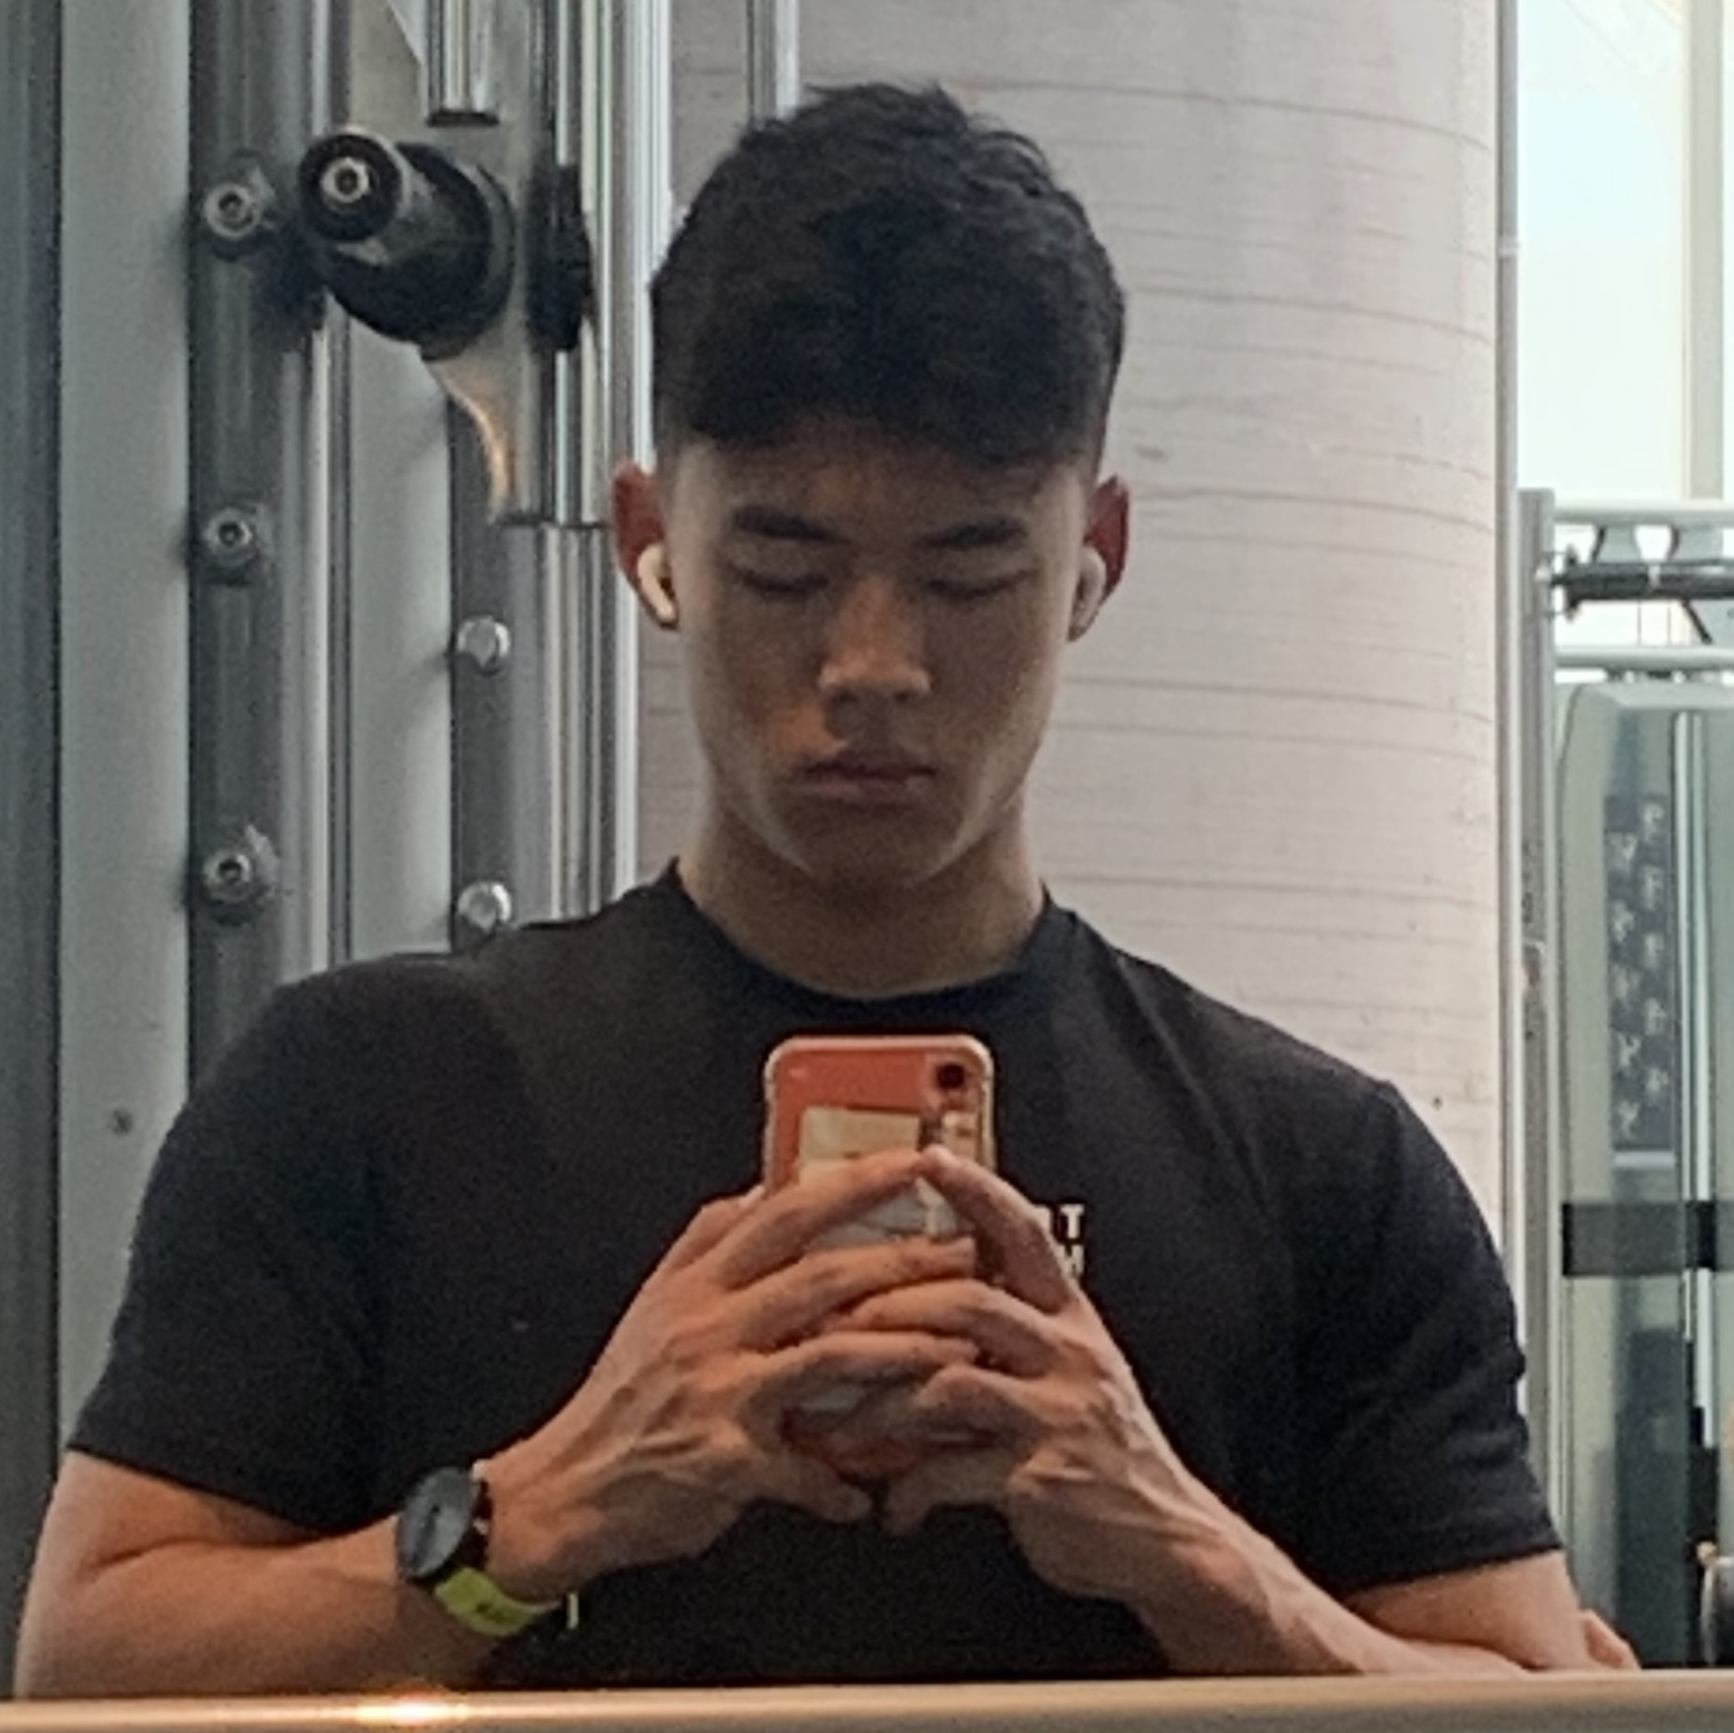
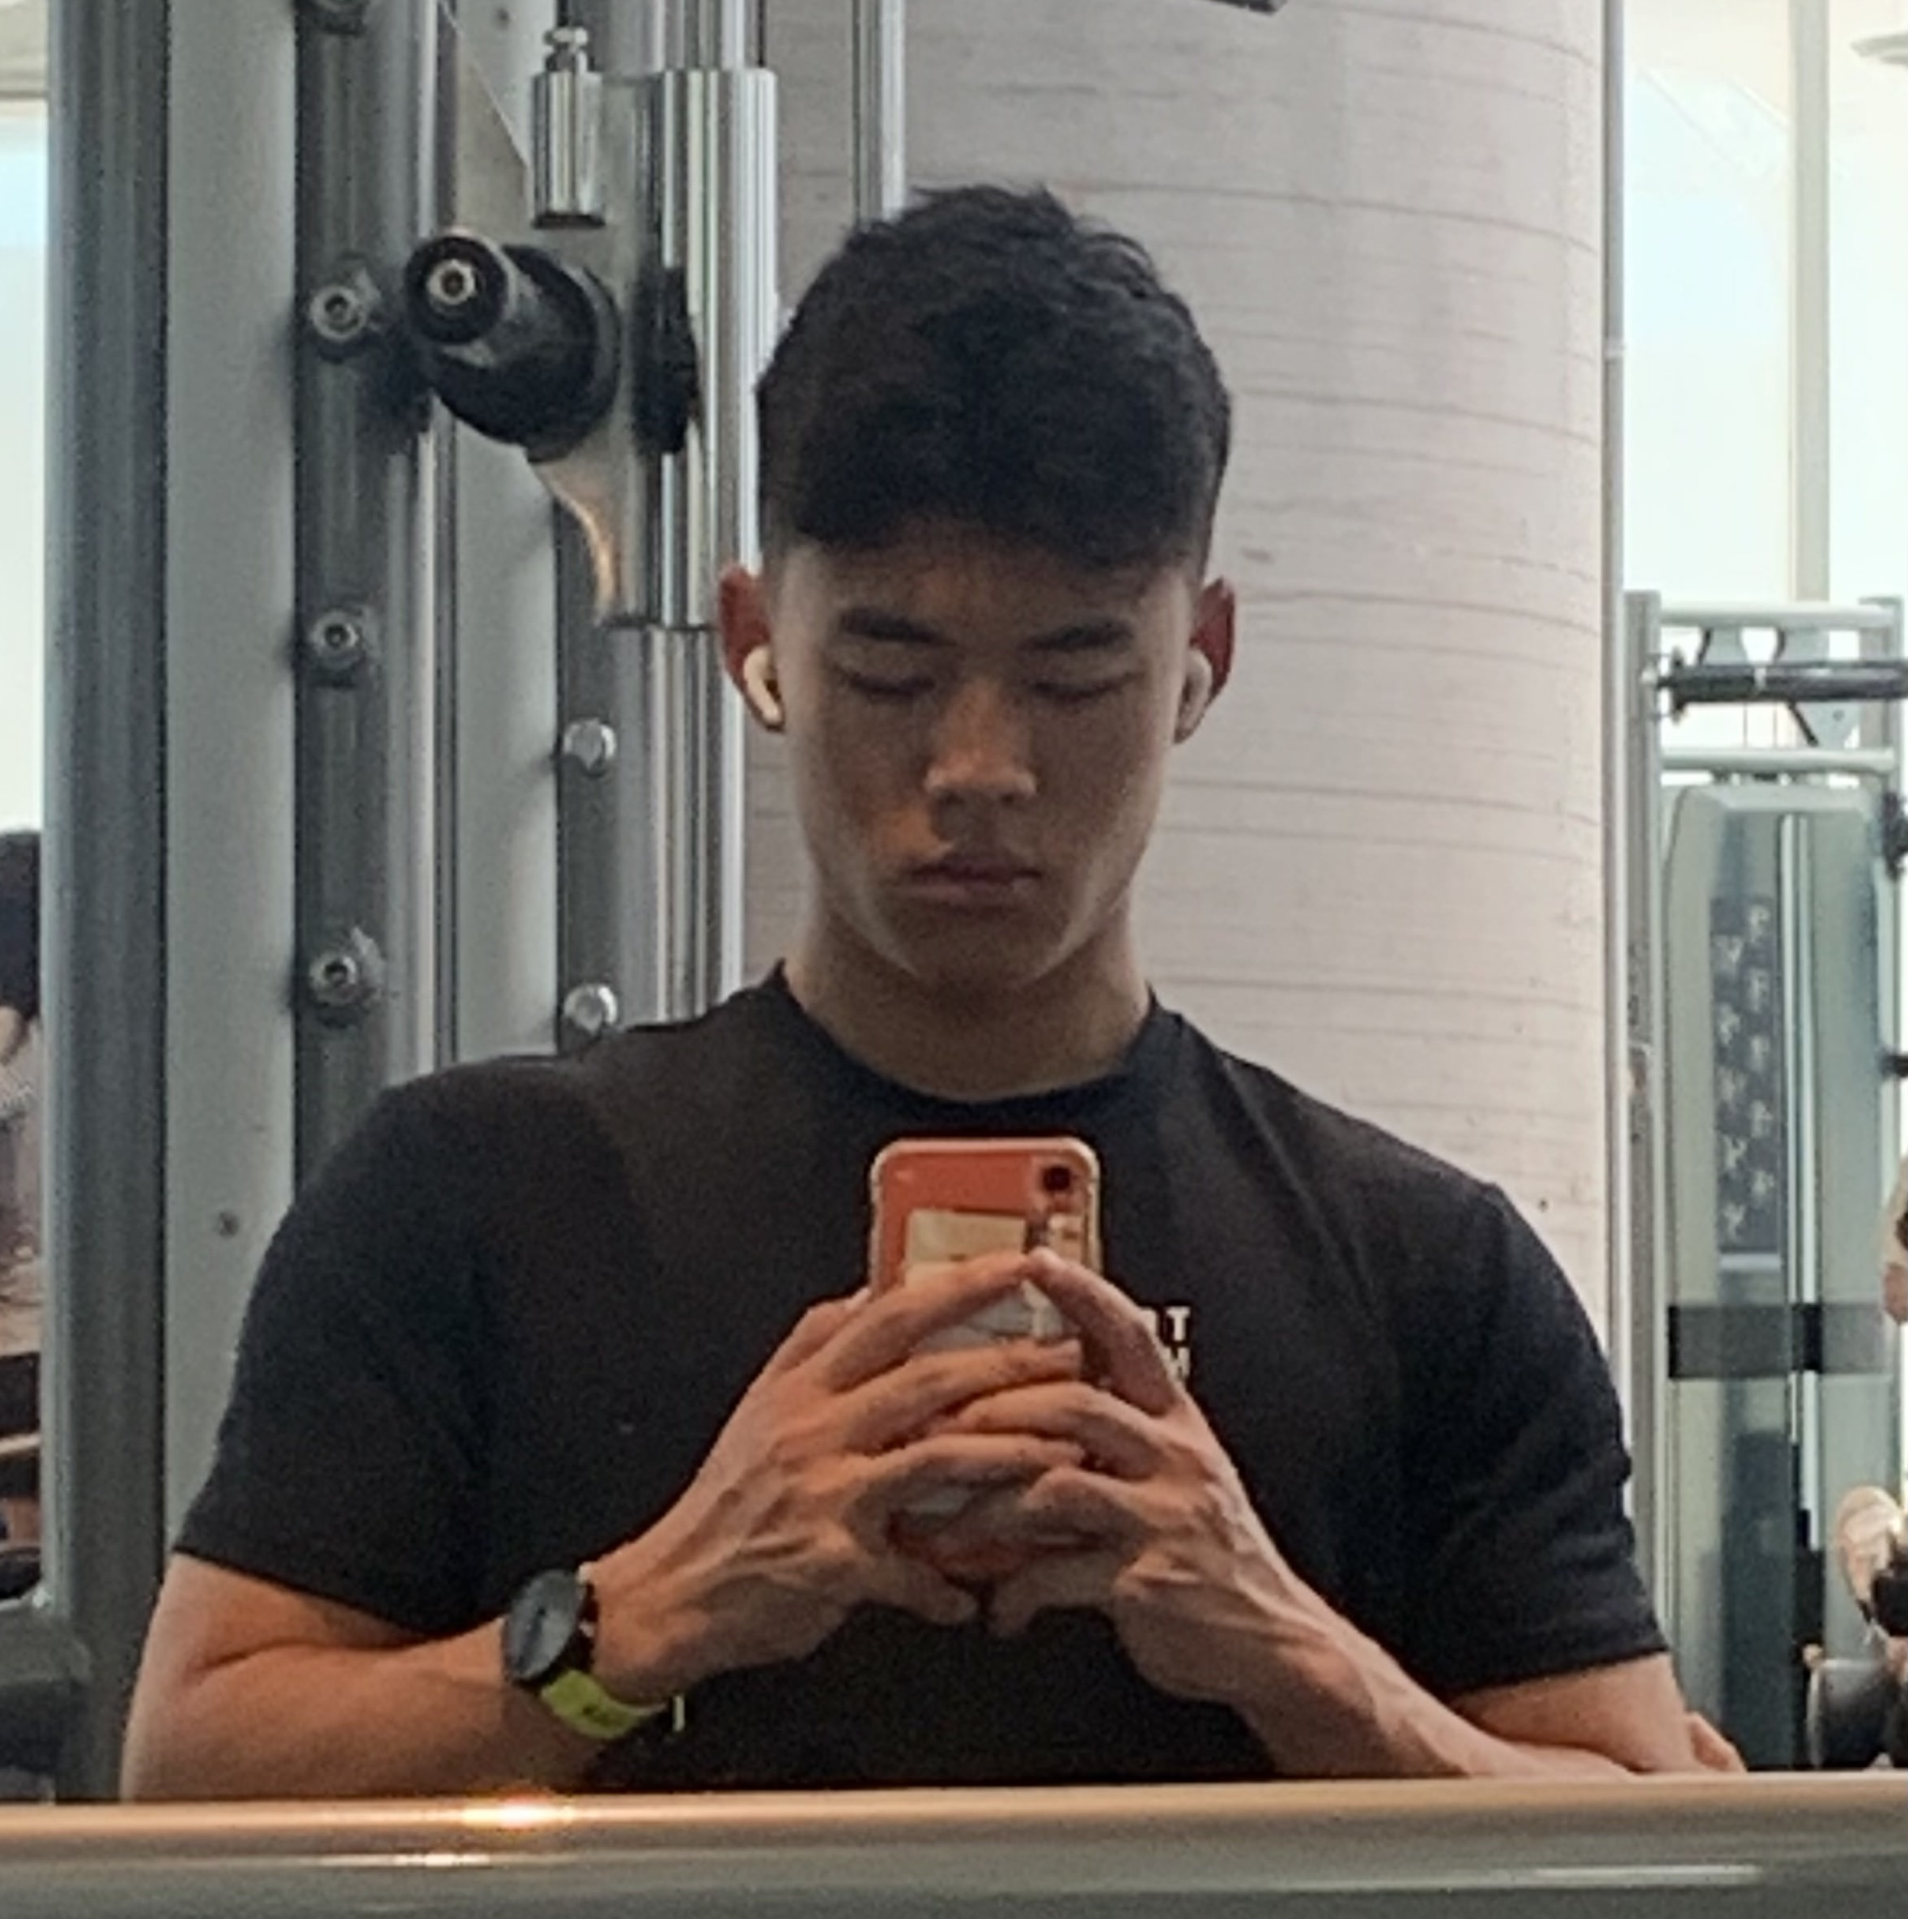
-

diff --git a/frontend/src/App.tsx b/frontend/src/App.tsx
@@ -9,7 +9,7 @@ import { CardContainer, CardBody, CardItem } from "./components/3DCard";
 import { Analytics } from "@vercel/analytics/react";
 
 /* Image Imports */
-import profileImg from "./assets/casual_profile.png";
+import profileImg from "./assets/casual_profile.jpg";
 import wingLeft from "./assets/wing_left.webp";
 import wingRight from "./assets/wing_right.webp";
 import bibsImg from "./assets/bibs.webp";
